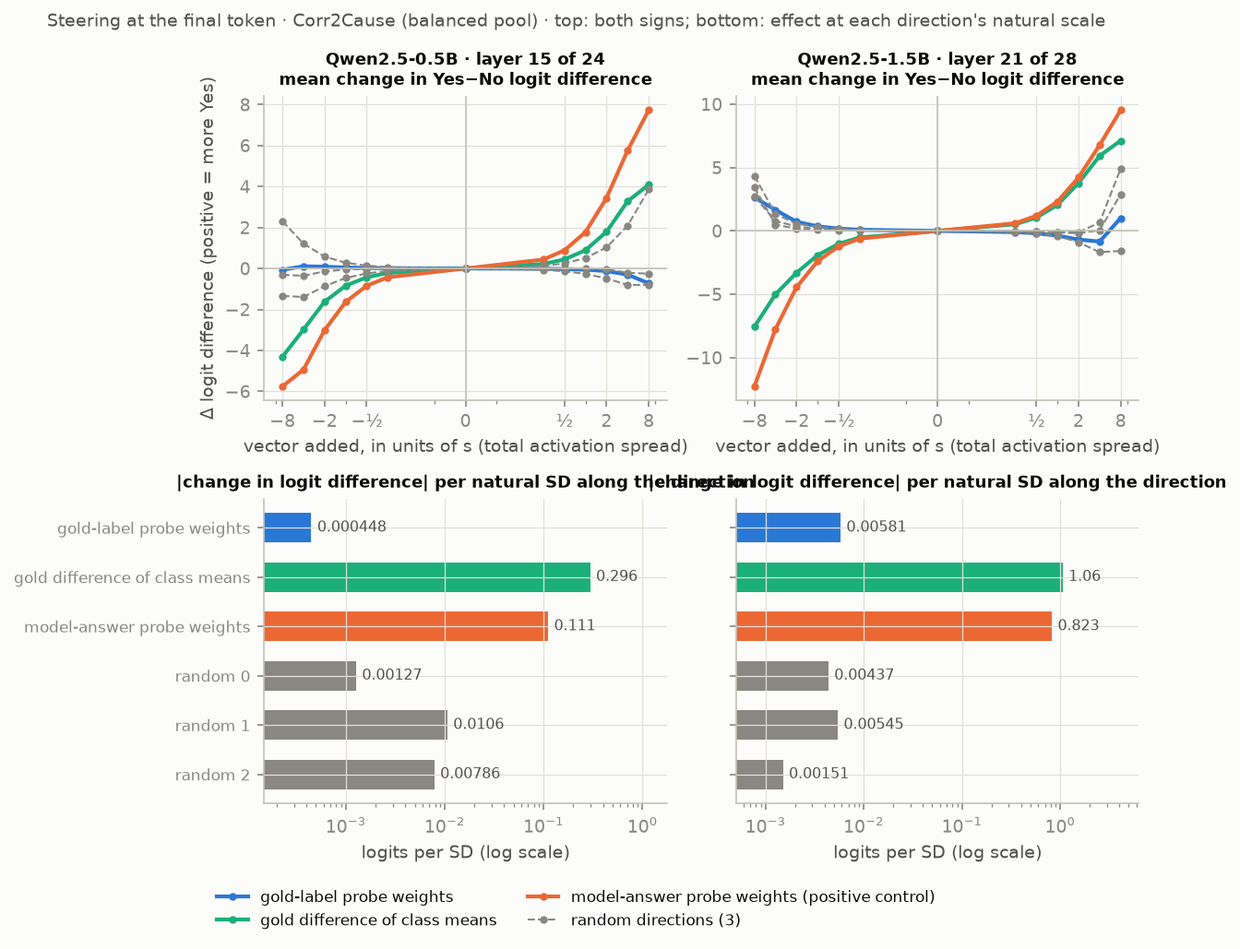
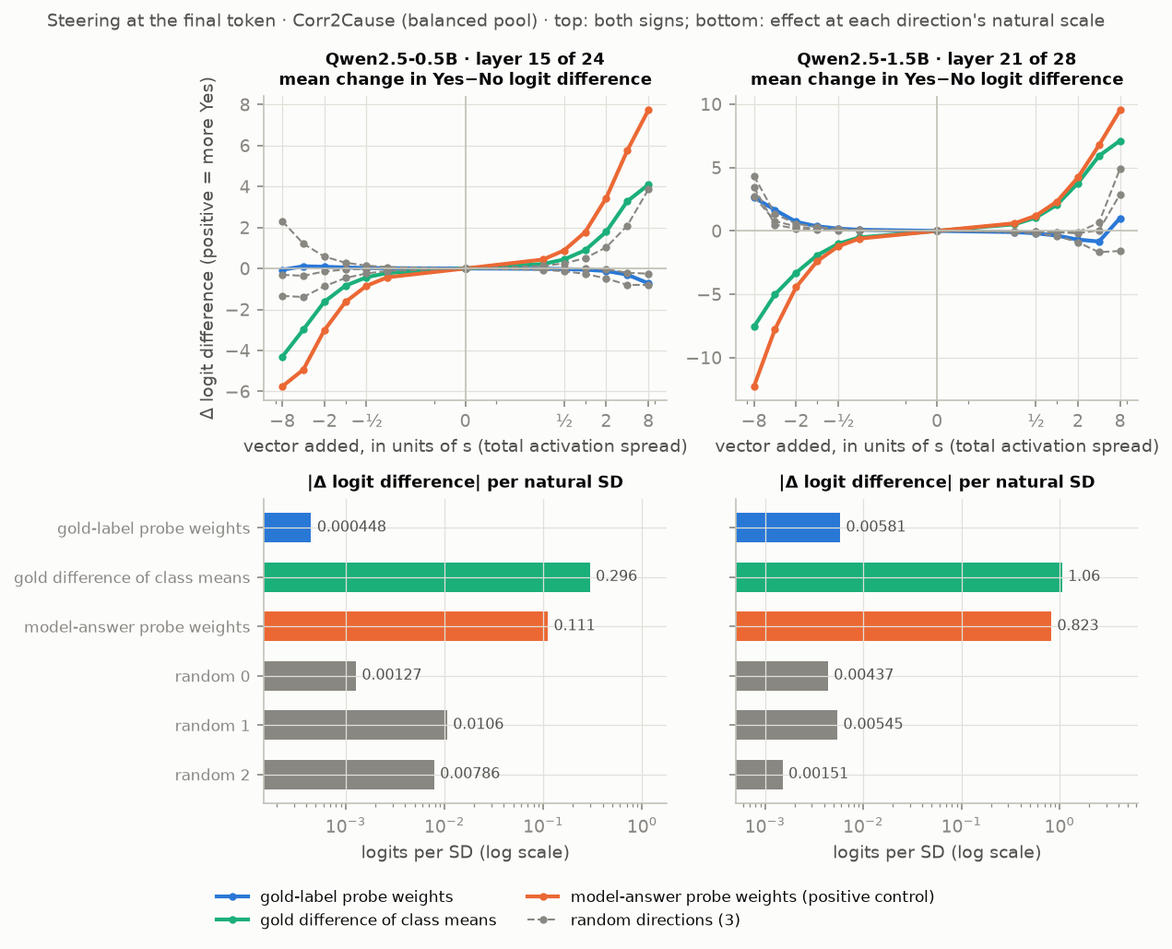
Tier 2 rewritten after the audit: signed slopes, matched controls, natural scale; patching retitled; figures and tables regenerated

diff --git a/scripts/06_figures.py b/scripts/06_figures.py
@@ -306,7 +306,7 @@ def fig_steering():
                 ax.text(v * 1.15, i, f"{v:.3g}", va="center", fontsize=7.5, color=INK2)
             ax.set_yticks(range(len(keys)), labs if j == 0 else [""] * len(keys), fontsize=8); ax.invert_yaxis()
             ax.set_xscale("log"); ax.set_xlim(min(vals) / 3, max(vals) * 6)
-            ax.set_title("|change in logit difference| per natural SD along the direction", fontsize=8.5)
+            ax.set_title("|Δ logit difference| per natural SD", fontsize=8.5)
             ax.set_xlabel("logits per SD (log scale)")
         axes[0, 0].set_ylabel("Δ logit difference (positive = more Yes)")
         h, l = axes[0, 0].get_legend_handles_labels()
@@ -329,7 +329,7 @@ def fig_patching():
         for j, m in enumerate(ms):
             r = load(f"patching_{m}.json")
             k = r["kinds"][kind]
-            for i, (key, lab) in enumerate((("pooled_recovery", "clean → corrupt"), ("control_pooled_recovery", "random-donor patch (uninformative)"))):
+            for i, (key, lab) in enumerate((("pooled_recovery", "clean → corrupt"), ("control_pooled_recovery", "random donor, not a control"))):
                 ax = axes[i, j]
                 g = np.array(k[key], float).T                    # [regions, layers]
                 im = ax.imshow(g, aspect="auto", cmap=cmap, norm=TwoSlopeNorm(0, -1, 1), interpolation="nearest")
@@ -337,7 +337,7 @@ def fig_patching():
                 step = max(1, len(r["layers"]) // 8)
                 ax.set_xticks(range(0, len(r["layers"]), step), [r["layers"][t] for t in range(0, len(r["layers"]), step)])
                 ax.grid(False)
-                ax.set_title(f"{MODEL_LAB[m]} · {lab} (n={k['n_pairs'] if i == 0 else k['n_pairs_with_control']} pairs)", fontsize=8.5)
+                ax.set_title(f"{MODEL_LAB[m]} · {lab} (n={k['n_pairs'] if i == 0 else k['n_pairs_with_control']})", fontsize=8.5)
                 if i == 1:
                     ax.set_xlabel("layer patched (0 = embeddings)")
             fig.colorbar(im, ax=axes[:, j], shrink=0.7, label="pooled recovery" if j == len(ms) - 1 else None)

diff --git a/report/report.md b/report/report.md
@@ -528,7 +528,11 @@ For Qwen2.5-1.5B on the debiased pool: the activations encode part of the premis
 
 ## 4. Tier 2 results
 
-### 4.1 Steering and ablation: is the decodable direction used?
+This section was rewritten after the second independent audit (Section 6), which showed that my first summary of the steering results ("the gold-probe direction is inert, the model-output direction flips answers") did not survive scrutiny as stated. The analysis below uses the audit's metrics and adds the controls it asked for. Results for Gemma-2-2B and Qwen2.5-3B come from the Kaggle run and are added when it returns; that run used three random directions only, so the matched controls exist for the two local Qwen models.
+
+### 4.1 Steering: what does adding a decodable direction do to the answer?
+
+**Design.** At one layer (the gold probe's selected layer) and the final prompt token, add ±α·s·d for a unit direction d and read the Yes−No answer logit difference (LD). s is the RMS distance of that layer's activations from their mean, a norm over all dimensions. Directions are fitted on the selection half and applied to 300 report-half items (150 valid, 150 invalid). Three real directions: the gold-label probe's weight vector; the difference between the mean activation of valid and invalid items; and, as a positive control, the weight vector of a probe for the model's own (median-split) answer, which is fitted to the very quantity being measured. The headline number is the **slope**, (LD(+α) − LD(−α)) / 2α at α = 1, in logits per unit of s.
 
 | Model | Item set | Layer | Direction | Slope: Δ(Yes−No logit) per unit s | Share of items with positive slope | One unit of s in the direction's own SDs | Slope per own SD | Effect of moving across the natural gold-class gap | AUROC for gold label | AUROC for model's answer |
 |---|---|---|---|---|---|---|---|---|---|---|
@@ -584,11 +588,99 @@ For Qwen2.5-1.5B on the debiased pool: the activations encode part of the premis
 <sub>Source: `results/steering_analysis_qwen0.5b_c2c_probe.json`, `results/steering_analysis_qwen0.5b_c2c_probe_d0.5.json`, `results/steering_analysis_qwen0.5b_c2c_probe_d0.85.json`, `results/steering_analysis_qwen0.5b_c2c_debiased.json`, `results/steering_analysis_qwen0.5b_cladder.json`, `results/steering_analysis_qwen1.5b_c2c_probe.json`, `results/steering_analysis_qwen1.5b_c2c_debiased.json`, `results/steering_analysis_qwen1.5b_cladder.json`</sub>
 
 ![steering c2c](../figures/fig6_steering_c2c_probe.png)
-![steering cladder](../figures/fig6_steering_cladder.png)
+![steering debiased](../figures/fig6_steering_c2c_debiased.png)
 
-<!-- T2-STEERING-TEXT -->
+**Matched controls** (150 report-half items for Qwen2.5-0.5B, 100 for Qwen2.5-1.5B): 100 isotropic random directions; 20 probe weight vectors fitted to shuffled labels, the control of the same kind as a probe direction; 20 differences of class means for shuffled labels, the control of the same kind as a difference of means.
 
-### 4.2 Patching: where is the answer determined?
+| Model | Item set | Layer | Direction | Slope per unit s | Percentile among 100 isotropic directions (|slope|) | Isotropic median |slope| | Isotropic max |slope| | Matched control family (20 directions) | Percentile among matched controls | Matched median |slope| | Matched max |slope| | Ratio to matched median |
+|---|---|---|---|---|---|---|---|---|---|---|---|---|
+| Qwen2.5-0.5B | Corr2Cause pool | 15 | gold-label probe weights | -0.049 [-0.056, -0.042] | 22 | 0.125 | 0.685 | shuffled-label probe | 20 | 0.130 | 0.294 | 0.4 |
+| Qwen2.5-0.5B | Corr2Cause pool | 15 | gold difference of class means | +0.865 [+0.855, +0.875] | 100 | 0.125 | 0.685 | shuffled-label difference of means | 100 | 0.189 | 0.628 | 4.6 |
+| Qwen2.5-0.5B | Corr2Cause pool | 15 | model-answer probe weights (positive control) | +1.700 [+1.685, +1.714] | 100 | 0.125 | 0.685 | shuffled-label probe | 100 | 0.130 | 0.294 | 13.1 |
+| Qwen2.5-0.5B | Corr2Cause debiased pool | 14 | gold-label probe weights | -0.229 [-0.235, -0.222] | 88 | 0.104 | 0.373 | shuffled-label probe | 85 | 0.075 | 0.360 | 3.0 |
+| Qwen2.5-0.5B | Corr2Cause debiased pool | 14 | gold difference of class means | +0.150 [+0.144, +0.157] | 63 | 0.104 | 0.373 | shuffled-label difference of means | 90 | 0.063 | 0.191 | 2.4 |
+| Qwen2.5-0.5B | Corr2Cause debiased pool | 14 | model-answer probe weights (positive control) | +0.525 [+0.516, +0.532] | 100 | 0.104 | 0.373 | shuffled-label probe | 100 | 0.075 | 0.360 | 7.0 |
+| Qwen2.5-1.5B | Corr2Cause pool | 21 | gold-label probe weights | -0.367 [-0.382, -0.351] | 84 | 0.162 | 1.043 | shuffled-label probe | 85 | 0.206 | 0.533 | 1.8 |
+| Qwen2.5-1.5B | Corr2Cause pool | 21 | gold difference of class means | +1.981 [+1.925, +2.042] | 100 | 0.162 | 1.043 | shuffled-label difference of means | 85 | 1.131 | 2.685 | 1.8 |
+| Qwen2.5-1.5B | Corr2Cause pool | 21 | model-answer probe weights (positive control) | +2.360 [+2.305, +2.424] | 100 | 0.162 | 1.043 | shuffled-label probe | 100 | 0.206 | 0.533 | 11.5 |
+| Qwen2.5-1.5B | Corr2Cause debiased pool | 22 | gold-label probe weights | -0.201 [-0.226, -0.178] | 55 | 0.184 | 0.850 | shuffled-label probe | 65 | 0.113 | 0.449 | 1.8 |
+| Qwen2.5-1.5B | Corr2Cause debiased pool | 22 | gold difference of class means | +1.897 [+1.865, +1.930] | 100 | 0.184 | 0.850 | shuffled-label difference of means | 80 | 1.330 | 2.674 | 1.4 |
+| Qwen2.5-1.5B | Corr2Cause debiased pool | 22 | model-answer probe weights (positive control) | +1.711 [+1.684, +1.743] | 100 | 0.184 | 0.850 | shuffled-label probe | 100 | 0.113 | 0.449 | 15.1 |
+
+<sub>Source: `results/steering_controls_qwen0.5b_c2c_probe.json`, `results/steering_controls_qwen0.5b_c2c_debiased.json`, `results/steering_controls_qwen1.5b_c2c_probe.json`, `results/steering_controls_qwen1.5b_c2c_debiased.json`</sub>
+
+**What the data show.**
+
+1. *The gold-probe weight direction does no more than label-free directions of the same kind.* On the original pool its slope is -0.049 [-0.056, -0.042] (percentile 20% among 20 shuffled-label probe directions; their median |slope| 0.130, maximum 0.294) for Qwen2.5-0.5B and -0.367 [-0.382, -0.351] (percentile 85% among 20 shuffled-label probe directions; their median |slope| 0.206, maximum 0.533) for Qwen2.5-1.5B. On the debiased pool: -0.229 [-0.235, -0.222] (percentile 85% among 20 shuffled-label probe directions; their median |slope| 0.075, maximum 0.360) and -0.201 [-0.226, -0.178] (percentile 65% among 20 shuffled-label probe directions; their median |slope| 0.113, maximum 0.449). In no case is it beyond the 95th percentile of its matched controls. For Qwen2.5-1.5B on the original pool the effect is consistent in sign across items and *opposite* to the gold label (pushing "towards valid" lowers the Yes logit); my first table showed one sign only and hid this. It is within what shuffled-label probe directions do, so it is not evidence of a gold-specific mechanism in either direction.
+2. *At natural scale the probe direction does essentially nothing.* A probe's weight vector points into low-variance directions: one unit of s is 119.00 (Qwen2.5-0.5B) and 63.08 (Qwen2.5-1.5B) natural standard deviations along it. Moving an item across the whole natural gap between valid and invalid items along that direction would change LD by -0.001 and -0.009 logits, against a standard deviation of LD across items of 0.41 and 2.28.
+3. *The difference-of-means direction moves the answer, but not specifically because it separates valid from invalid items.* Its slope is +0.865 [+0.855, +0.875] (percentile 100% among 20 shuffled-label differences of means; their median |slope| 0.189, maximum 0.628) for Qwen2.5-0.5B and +1.981 [+1.925, +2.042] (percentile 85% among 20 shuffled-label differences of means; their median |slope| 1.131, maximum 2.685) for Qwen2.5-1.5B on the original pool; on the debiased pool +0.150 [+0.144, +0.157] (percentile 90% among 20 shuffled-label differences of means; their median |slope| 0.063, maximum 0.191) and +1.897 [+1.865, +1.930] (percentile 80% among 20 shuffled-label differences of means; their median |slope| 1.330, maximum 2.674). A difference of class means lies in the high-variance part of activation space, and so does a difference of means for random labels. On the original pool this direction also separates the model's own answer at least as well as the gold label (AUROC 0.942 against 0.650 for Qwen2.5-1.5B). Only for Qwen2.5-0.5B on the original pool does it exceed all 20 shuffled controls, and that pool is the one in which the gold label is confounded with the hypothesis string.
+4. *The positive control works.* The model-answer direction has the largest slope everywhere and exceeds every control, as it must.
+
+**What may and may not be concluded.**
+
+- May: at the probed layer and the final token, later layers do not read the gold probe's weight direction more than they read a label-free direction of the same kind, and a movement of natural size along it leaves the answer unchanged.
+- May not: "the decoded information is unused". The probe's weights and the difference of class means are two views of one discriminant (the covariance times the probe weights has cosine 0.98 with the difference of means for Qwen2.5-1.5B); one site and one position were tested; and the activation pattern that does move the answer was not gold-specific.
+- The most direct evidence that the information of Section 3.6 is not used is behavioural: on the debiased pool the answers are at chance while the probe decodes validity at 0.63 and 0.75.
+- CLadder: the steered gold directions barely decode the gold label there (AUROC 0.547 and 0.622), so those rows are shown for completeness and no conclusion is drawn from them.
+
+Flip rates and the earlier "accuracy when pushed towards gold" (now called controllability) are in the next table. They are poor measures for models that answer No to most items: a flip is a threshold on slope × α against the margin, and controllability uses the gold label to choose the sign of the push, so any direction with a consistent slope reaches 0 or 1. Ablating the component along the probe or random directions changes LD by amounts at the float16 noise floor; no ablation comparison is claimed.
+
+| Model | Item set | Layer | Direction | Flip rate +4s | Flip rate −4s | Controllability towards gold (4s) | Controllability away from gold (4s) | Ablation mean |ΔLD| | Noise floor | Ablation above 3× floor |
+|---|---|---|---|---|---|---|---|---|---|---|
+| Qwen2.5-0.5B | Corr2Cause pool | 15/24 | gold-label probe weights | 0.00 [0.00, 0.00] | 0.00 [0.00, 0.01] | 0.50 [0.46, 0.55] | 0.50 [0.46, 0.55] | 0.0048 | 0.0058 | no |
+| Qwen2.5-0.5B | Corr2Cause pool | 15/24 | gold difference of class means | 1.00 [1.00, 1.00] | 0.00 [0.00, 0.00] | 1.00 [1.00, 1.00] | 0.00 [0.00, 0.00] | 0.2683 | 0.0058 | yes |
+| Qwen2.5-0.5B | Corr2Cause pool | 15/24 | model-answer probe weights (positive control) | 1.00 [1.00, 1.00] | 0.00 [0.00, 0.00] | 1.00 [1.00, 1.00] | 0.00 [0.00, 0.00] | 0.0948 | 0.0058 | yes |
+| Qwen2.5-0.5B | Corr2Cause pool | 15/24 | random direction 0 | 0.00 [0.00, 0.01] | 0.00 [0.00, 0.00] | 0.50 [0.46, 0.55] | 0.50 [0.45, 0.54] | 0.0047 | 0.0058 | no |
+| Qwen2.5-0.5B | Corr2Cause pool | 15/24 | random direction 1 | 1.00 [1.00, 1.00] | 0.00 [0.00, 0.00] | 1.00 [1.00, 1.00] | 0.00 [0.00, 0.00] | 0.0100 | 0.0058 | no |
+| Qwen2.5-0.5B | Corr2Cause pool | 15/24 | random direction 2 | 0.00 [0.00, 0.00] | 0.57 [0.51, 0.63] | 0.24 [0.19, 0.28] | 0.81 [0.76, 0.85] | 0.0077 | 0.0058 | no |
+| Qwen2.5-0.5B | Corr2Cause pool | 12/24 | gold-label probe weights | 0.12 [0.08, 0.16] | 0.00 [0.00, 0.00] | 0.58 [0.53, 0.63] | 0.46 [0.42, 0.51] | 0.0045 | 0.0059 | no |
+| Qwen2.5-0.5B | Corr2Cause pool | 12/24 | gold difference of class means | 0.00 [0.00, 0.00] | 0.06 [0.03, 0.09] | 0.49 [0.44, 0.53] | 0.54 [0.50, 0.59] | 0.0262 | 0.0059 | yes |
+| Qwen2.5-0.5B | Corr2Cause pool | 12/24 | model-answer probe weights (positive control) | 0.02 [0.01, 0.04] | 0.01 [0.00, 0.02] | 0.51 [0.47, 0.56] | 0.50 [0.46, 0.55] | 0.0043 | 0.0059 | no |
+| Qwen2.5-0.5B | Corr2Cause pool | 12/24 | random direction 0 | 0.00 [0.00, 0.00] | 0.01 [0.00, 0.03] | 0.50 [0.45, 0.54] | 0.51 [0.47, 0.56] | 0.0050 | 0.0059 | no |
+| Qwen2.5-0.5B | Corr2Cause pool | 12/24 | random direction 1 | 0.15 [0.11, 0.19] | 0.00 [0.00, 0.00] | 0.61 [0.56, 0.66] | 0.46 [0.42, 0.51] | 0.0053 | 0.0059 | no |
+| Qwen2.5-0.5B | Corr2Cause pool | 12/24 | random direction 2 | 0.27 [0.21, 0.33] | 0.00 [0.00, 0.00] | 0.67 [0.62, 0.72] | 0.40 [0.35, 0.45] | 0.0076 | 0.0059 | no |
+| Qwen2.5-0.5B | Corr2Cause pool | 20/24 | gold-label probe weights | 0.06 [0.03, 0.09] | 0.00 [0.00, 0.00] | 0.55 [0.50, 0.59] | 0.49 [0.45, 0.54] | 0.0044 | 0.0056 | no |
+| Qwen2.5-0.5B | Corr2Cause pool | 20/24 | gold difference of class means | 1.00 [1.00, 1.00] | 0.00 [0.00, 0.00] | 1.00 [1.00, 1.00] | 0.00 [0.00, 0.00] | 0.2374 | 0.0056 | yes |
+| Qwen2.5-0.5B | Corr2Cause pool | 20/24 | model-answer probe weights (positive control) | 1.00 [1.00, 1.00] | 0.00 [0.00, 0.00] | 1.00 [1.00, 1.00] | 0.00 [0.00, 0.00] | 0.1710 | 0.0056 | yes |
+| Qwen2.5-0.5B | Corr2Cause pool | 20/24 | random direction 0 | 0.07 [0.04, 0.10] | 0.00 [0.00, 0.00] | 0.55 [0.50, 0.60] | 0.49 [0.44, 0.53] | 0.0052 | 0.0056 | no |
+| Qwen2.5-0.5B | Corr2Cause pool | 20/24 | random direction 1 | 0.36 [0.30, 0.42] | 0.00 [0.00, 0.00] | 0.71 [0.66, 0.77] | 0.36 [0.31, 0.41] | 0.0056 | 0.0056 | no |
+| Qwen2.5-0.5B | Corr2Cause pool | 20/24 | random direction 2 | 0.00 [0.00, 0.00] | 0.05 [0.03, 0.08] | 0.49 [0.45, 0.54] | 0.54 [0.50, 0.59] | 0.0058 | 0.0056 | no |
+| Qwen2.5-0.5B | Corr2Cause debiased pool | 14/24 | gold-label probe weights | 0.00 [0.00, 0.01] | 0.17 [0.12, 0.21] | 0.42 [0.37, 0.47] | 0.59 [0.54, 0.64] | 0.0046 | 0.0059 | no |
+| Qwen2.5-0.5B | Corr2Cause debiased pool | 14/24 | gold difference of class means | 0.09 [0.06, 0.13] | 0.00 [0.00, 0.01] | 0.55 [0.49, 0.60] | 0.45 [0.40, 0.50] | 0.0144 | 0.0059 | no |
+| Qwen2.5-0.5B | Corr2Cause debiased pool | 14/24 | model-answer probe weights (positive control) | 0.99 [0.98, 1.00] | 0.00 [0.00, 0.01] | 1.00 [1.00, 1.00] | 0.00 [0.00, 0.01] | 0.0107 | 0.0059 | no |
+| Qwen2.5-0.5B | Corr2Cause debiased pool | 14/24 | random direction 0 | 0.00 [0.00, 0.01] | 0.03 [0.01, 0.05] | 0.49 [0.44, 0.54] | 0.52 [0.47, 0.57] | 0.0046 | 0.0059 | no |
+| Qwen2.5-0.5B | Corr2Cause debiased pool | 14/24 | random direction 1 | 0.13 [0.09, 0.16] | 0.00 [0.00, 0.01] | 0.56 [0.51, 0.61] | 0.43 [0.38, 0.48] | 0.0052 | 0.0059 | no |
+| Qwen2.5-0.5B | Corr2Cause debiased pool | 14/24 | random direction 2 | 0.00 [0.00, 0.01] | 0.05 [0.03, 0.08] | 0.47 [0.42, 0.52] | 0.53 [0.48, 0.58] | 0.0052 | 0.0059 | no |
+| Qwen2.5-0.5B | CLadder | 16/24 | gold-label probe weights | 0.12 [0.09, 0.16] | 0.04 [0.02, 0.06] | 0.59 [0.53, 0.64] | 0.43 [0.37, 0.48] | 0.0040 | 0.0048 | no |
+| Qwen2.5-0.5B | CLadder | 16/24 | gold difference of class means | 0.05 [0.02, 0.08] | 0.95 [0.92, 0.98] | 0.00 [0.00, 0.01] | 1.00 [1.00, 1.00] | 0.2176 | 0.0048 | yes |
+| Qwen2.5-0.5B | CLadder | 16/24 | model-answer probe weights (positive control) | 0.95 [0.92, 0.98] | 0.05 [0.02, 0.08] | 1.00 [1.00, 1.00] | 0.00 [0.00, 0.00] | 0.1021 | 0.0048 | yes |
+| Qwen2.5-0.5B | CLadder | 16/24 | random direction 0 | 0.35 [0.28, 0.42] | 0.03 [0.01, 0.04] | 0.70 [0.64, 0.77] | 0.33 [0.28, 0.38] | 0.0052 | 0.0048 | no |
+| Qwen2.5-0.5B | CLadder | 16/24 | random direction 1 | 0.68 [0.61, 0.76] | 0.04 [0.02, 0.07] | 0.88 [0.83, 0.92] | 0.15 [0.09, 0.20] | 0.0066 | 0.0048 | no |
+| Qwen2.5-0.5B | CLadder | 16/24 | random direction 2 | 0.02 [0.00, 0.03] | 0.54 [0.49, 0.60] | 0.25 [0.20, 0.30] | 0.78 [0.72, 0.83] | 0.0041 | 0.0048 | no |
+| Qwen2.5-1.5B | Corr2Cause pool | 21/28 | gold-label probe weights | 0.10 [0.07, 0.14] | 0.30 [0.26, 0.35] | 0.31 [0.26, 0.35] | 0.71 [0.66, 0.76] | 0.0076 | 0.0080 | no |
+| Qwen2.5-1.5B | Corr2Cause pool | 21/28 | gold difference of class means | 0.89 [0.85, 0.93] | 0.11 [0.07, 0.15] | 1.00 [1.00, 1.00] | 0.00 [0.00, 0.00] | 1.0198 | 0.0080 | yes |
+| Qwen2.5-1.5B | Corr2Cause pool | 21/28 | model-answer probe weights (positive control) | 0.89 [0.85, 0.93] | 0.11 [0.07, 0.15] | 1.00 [1.00, 1.00] | 0.00 [0.00, 0.00] | 0.7409 | 0.0080 | yes |
+| Qwen2.5-1.5B | Corr2Cause pool | 21/28 | random direction 0 | 0.04 [0.02, 0.06] | 0.05 [0.03, 0.07] | 0.51 [0.47, 0.56] | 0.51 [0.47, 0.56] | 0.0071 | 0.0080 | no |
+| Qwen2.5-1.5B | Corr2Cause pool | 21/28 | random direction 1 | 0.08 [0.05, 0.12] | 0.21 [0.17, 0.26] | 0.35 [0.31, 0.39] | 0.64 [0.59, 0.69] | 0.0074 | 0.0080 | no |
+| Qwen2.5-1.5B | Corr2Cause pool | 21/28 | random direction 2 | 0.13 [0.10, 0.17] | 0.06 [0.03, 0.09] | 0.55 [0.51, 0.60] | 0.48 [0.43, 0.52] | 0.0065 | 0.0080 | no |
+| Qwen2.5-1.5B | Corr2Cause debiased pool | 22/28 | gold-label probe weights | 0.05 [0.03, 0.07] | 0.02 [0.00, 0.03] | 0.45 [0.40, 0.50] | 0.51 [0.46, 0.56] | 0.0042 | 0.0060 | no |
+| Qwen2.5-1.5B | Corr2Cause debiased pool | 22/28 | gold difference of class means | 0.88 [0.84, 0.91] | 0.12 [0.09, 0.16] | 1.00 [1.00, 1.00] | 0.00 [0.00, 0.00] | 0.5521 | 0.0060 | yes |
+| Qwen2.5-1.5B | Corr2Cause debiased pool | 22/28 | model-answer probe weights (positive control) | 0.88 [0.84, 0.91] | 0.12 [0.09, 0.16] | 1.00 [1.00, 1.00] | 0.00 [0.00, 0.00] | 0.4372 | 0.0060 | yes |
+| Qwen2.5-1.5B | Corr2Cause debiased pool | 22/28 | random direction 0 | 0.04 [0.02, 0.07] | 0.03 [0.01, 0.05] | 0.52 [0.47, 0.57] | 0.44 [0.39, 0.49] | 0.0047 | 0.0060 | no |
+| Qwen2.5-1.5B | Corr2Cause debiased pool | 22/28 | random direction 1 | 0.10 [0.07, 0.14] | 0.38 [0.32, 0.43] | 0.25 [0.20, 0.29] | 0.73 [0.68, 0.78] | 0.0088 | 0.0060 | no |
+| Qwen2.5-1.5B | Corr2Cause debiased pool | 22/28 | random direction 2 | 0.24 [0.19, 0.28] | 0.02 [0.00, 0.03] | 0.60 [0.54, 0.65] | 0.37 [0.31, 0.42] | 0.0061 | 0.0060 | no |
+| Qwen2.5-1.5B | CLadder | 24/28 | gold-label probe weights | 0.03 [0.01, 0.05] | 0.08 [0.05, 0.10] | 0.54 [0.48, 0.61] | 0.45 [0.39, 0.53] | 0.0047 | 0.0061 | no |
+| Qwen2.5-1.5B | CLadder | 24/28 | gold difference of class means | 0.37 [0.31, 0.43] | 0.39 [0.34, 0.44] | 0.89 [0.85, 0.92] | 0.13 [0.09, 0.18] | 0.1670 | 0.0061 | yes |
+| Qwen2.5-1.5B | CLadder | 24/28 | model-answer probe weights (positive control) | 0.37 [0.31, 0.43] | 0.63 [0.57, 0.69] | 1.00 [1.00, 1.00] | 0.00 [0.00, 0.00] | 0.6141 | 0.0061 | yes |
+| Qwen2.5-1.5B | CLadder | 24/28 | random direction 0 | 0.17 [0.13, 0.21] | 0.14 [0.10, 0.18] | 0.65 [0.58, 0.73] | 0.35 [0.29, 0.41] | 0.0076 | 0.0061 | no |
+| Qwen2.5-1.5B | CLadder | 24/28 | random direction 1 | 0.33 [0.27, 0.38] | 0.18 [0.13, 0.22] | 0.26 [0.20, 0.32] | 0.76 [0.71, 0.82] | 0.0053 | 0.0061 | no |
+| Qwen2.5-1.5B | CLadder | 24/28 | random direction 2 | 0.27 [0.22, 0.32] | 0.12 [0.08, 0.16] | 0.71 [0.65, 0.78] | 0.32 [0.26, 0.39] | 0.0069 | 0.0061 | no |
+
+<sub>Source: `results/steering_analysis_qwen0.5b_c2c_probe.json`, `results/steering_analysis_qwen0.5b_c2c_probe_d0.5.json`, `results/steering_analysis_qwen0.5b_c2c_probe_d0.85.json`, `results/steering_analysis_qwen0.5b_c2c_debiased.json`, `results/steering_analysis_qwen0.5b_cladder.json`, `results/steering_analysis_qwen1.5b_c2c_probe.json`, `results/steering_analysis_qwen1.5b_c2c_debiased.json`, `results/steering_analysis_qwen1.5b_cladder.json`</sub>
+
+### 4.2 Patching: where does a change of variable reach the answer position?
+
+**Design.** Token-aligned Corr2Cause minimal pairs with opposite gold labels: *hyp* pairs share the premise and differ in one variable of the hypothesis; *prem* pairs share the hypothesis and have two variable letters swapped throughout the premise. The residual stream of the "clean" run is copied into the "corrupt" run at one layer and one group of token positions. Pooled recovery = Σ sign(D)·(LD_patched − LD_corrupt) / Σ|D|, with D = LD_clean − LD_corrupt.
 
 | Model | Pair kind | Pairs | Mean D = LD(clean) − LD(corrupt) | Frac. D > 0 | Both answered correctly | First layer with ≥ 0.5 recovery at final token | …as relative depth | Max |control| at diff tokens | Max |control| at final token | Pairs with control |
 |---|---|---|---|---|---|---|---|---|---|---|
@@ -602,6 +694,10 @@ For Qwen2.5-1.5B on the debiased pool: the activations encode part of the premis
 ![patching prem](../figures/fig7_patching_prem.png)
 ![patching hyp](../figures/fig7_patching_hyp.png)
 
+**What the data show.** The models do not prefer the valid member of a pair: mean D is +0.009 [-0.060, +0.078] (Qwen2.5-0.5B) and -0.088 [-0.420, +0.267] (Qwen2.5-1.5B) for hyp pairs, and D is positive for about half of the pairs. Because recovery is normalised by each pair's own D, the heat-maps show where *any* difference between the two prompts is carried to the final token, not where a causal judgement is made. That transfer is sharp: recovery at the final token first reaches 0.5 at layer 15 of 24 for Qwen2.5-0.5B (relative depth 0.62) and at layer 17 or 18 of 28 for Qwen2.5-1.5B (every second layer was patched; relative depth 0.61 to 0.64). The two pair kinds share their clean prompts and are not independent replications.
+
+**The random-donor row is not a control.** Only 16 of 60 (Qwen2.5-0.5B) and 6 of 40 (Qwen2.5-1.5B) pairs have a donor prompt of equal length, half of the donors carry the same token as the clean prompt at the changed position, and the statistic is not zero under the null. It is shown and not used.
+
 | Model | Pair kind | Pairs | Pearson r (attr. vs real) | Spearman | Mean |real| top-10 | Mean |real| random-10 | Largest real effects |
 |---|---|---|---|---|---|---|---|
 | Qwen2.5-0.5B | hyp | 30 | 1.00 | 0.98 | 0.449 | 0.034 | L14H5 (+0.76), MLP23 (-0.67), MLP12 (+0.50), MLP14 (+0.45), L12H2 (+0.44) |
@@ -613,7 +709,9 @@ For Qwen2.5-1.5B on the debiased pool: the activations encode part of the premis
 
 ![attribution](../figures/fig8_attribution_validation.png)
 
-<!-- T2-PATCHING-TEXT -->
+**Components.** Attribution patching (one gradient) agrees with real patching for the ten highest-ranked components of each model and pair kind. Among ten random components the agreement is driven by one or two large ones; without them the two estimates can disagree in sign. So: accurate for the largest components, not a complete ranking. Component names such as L14H5 are block numbers; residual index 15 is the output of block 14.
+
+**Not done.** A label-preserving minimal-pair control (two prompts that differ in a variable but have the same gold label) would separate "the answer changes" from "the prompt changes". It is the experiment this section most needs.
 
 ### 4.3 Cross-model comparison
 
@@ -641,7 +739,7 @@ For Qwen2.5-1.5B on the debiased pool: the activations encode part of the premis
 
 ![cross model](../figures/fig9_cross_model.png)
 
-<!-- T2-CROSS-TEXT -->
+A descriptive comparison of three models from two families, not a scaling law. On the original item sets gold-probe accuracy is higher for the two larger models than for Qwen2.5-0.5B, and the probe trails the strongest text baseline for every model. The selected layer lies at relative depth 0.6 to 0.9. On the debiased pool (Section 3.6) the difference between Qwen2.5-0.5B and Qwen2.5-1.5B is larger and is the more informative comparison, since it is not inflated by the hypothesis-string cue.
 
 ## 5. Tier 3 results
 

diff --git a/report/report_template.md b/report/report_template.md
@@ -229,27 +229,59 @@ For Qwen2.5-1.5B on the debiased pool: the activations encode part of the premis
 
 ## 4. Tier 2 results
 
-### 4.1 Steering and ablation: is the decodable direction used?
+This section was rewritten after the second independent audit (Section 6), which showed that my first summary of the steering results ("the gold-probe direction is inert, the model-output direction flips answers") did not survive scrutiny as stated. The analysis below uses the audit's metrics and adds the controls it asked for. Results for Gemma-2-2B and Qwen2.5-3B come from the Kaggle run and are added when it returns; that run used three random directions only, so the matched controls exist for the two local Qwen models.
+
+### 4.1 Steering: what does adding a decodable direction do to the answer?
+
+**Design.** At one layer (the gold probe's selected layer) and the final prompt token, add ±α·s·d for a unit direction d and read the Yes−No answer logit difference (LD). s is the RMS distance of that layer's activations from their mean, a norm over all dimensions. Directions are fitted on the selection half and applied to 300 report-half items (150 valid, 150 invalid). Three real directions: the gold-label probe's weight vector; the difference between the mean activation of valid and invalid items; and, as a positive control, the weight vector of a probe for the model's own (median-split) answer, which is fitted to the very quantity being measured. The headline number is the **slope**, (LD(+α) − LD(−α)) / 2α at α = 1, in logits per unit of s.
 
 <!-- TABLE:steering -->
 
 ![steering c2c](../figures/fig6_steering_c2c_probe.png)
-![steering cladder](../figures/fig6_steering_cladder.png)
+![steering debiased](../figures/fig6_steering_c2c_debiased.png)
 
-<!-- T2-STEERING-TEXT -->
+**Matched controls** (150 report-half items for Qwen2.5-0.5B, 100 for Qwen2.5-1.5B): 100 isotropic random directions; 20 probe weight vectors fitted to shuffled labels, the control of the same kind as a probe direction; 20 differences of class means for shuffled labels, the control of the same kind as a difference of means.
 
-### 4.2 Patching: where is the answer determined?
+<!-- TABLE:steering_controls -->
+
+**What the data show.**
+
+1. *The gold-probe weight direction does no more than label-free directions of the same kind.* On the original pool its slope is {{steering_controls_qwen0.5b_c2c_probe.json|real/gold_probe/slope_per_s|signedci}} (percentile {{steering_controls_qwen0.5b_c2c_probe.json|real/gold_probe/versus/shuffled_probe/percentile_of_abs_slope_per_s|pct}} among 20 shuffled-label probe directions; their median |slope| {{steering_controls_qwen0.5b_c2c_probe.json|families/shuffled_probe/abs_slope_per_s/median|num}}, maximum {{steering_controls_qwen0.5b_c2c_probe.json|families/shuffled_probe/abs_slope_per_s/max|num}}) for Qwen2.5-0.5B and {{steering_controls_qwen1.5b_c2c_probe.json|real/gold_probe/slope_per_s|signedci}} (percentile {{steering_controls_qwen1.5b_c2c_probe.json|real/gold_probe/versus/shuffled_probe/percentile_of_abs_slope_per_s|pct}} among 20 shuffled-label probe directions; their median |slope| {{steering_controls_qwen1.5b_c2c_probe.json|families/shuffled_probe/abs_slope_per_s/median|num}}, maximum {{steering_controls_qwen1.5b_c2c_probe.json|families/shuffled_probe/abs_slope_per_s/max|num}}) for Qwen2.5-1.5B. On the debiased pool: {{steering_controls_qwen0.5b_c2c_debiased.json|real/gold_probe/slope_per_s|signedci}} (percentile {{steering_controls_qwen0.5b_c2c_debiased.json|real/gold_probe/versus/shuffled_probe/percentile_of_abs_slope_per_s|pct}} among 20 shuffled-label probe directions; their median |slope| {{steering_controls_qwen0.5b_c2c_debiased.json|families/shuffled_probe/abs_slope_per_s/median|num}}, maximum {{steering_controls_qwen0.5b_c2c_debiased.json|families/shuffled_probe/abs_slope_per_s/max|num}}) and {{steering_controls_qwen1.5b_c2c_debiased.json|real/gold_probe/slope_per_s|signedci}} (percentile {{steering_controls_qwen1.5b_c2c_debiased.json|real/gold_probe/versus/shuffled_probe/percentile_of_abs_slope_per_s|pct}} among 20 shuffled-label probe directions; their median |slope| {{steering_controls_qwen1.5b_c2c_debiased.json|families/shuffled_probe/abs_slope_per_s/median|num}}, maximum {{steering_controls_qwen1.5b_c2c_debiased.json|families/shuffled_probe/abs_slope_per_s/max|num}}). In no case is it beyond the 95th percentile of its matched controls. For Qwen2.5-1.5B on the original pool the effect is consistent in sign across items and *opposite* to the gold label (pushing "towards valid" lowers the Yes logit); my first table showed one sign only and hid this. It is within what shuffled-label probe directions do, so it is not evidence of a gold-specific mechanism in either direction.
+2. *At natural scale the probe direction does essentially nothing.* A probe's weight vector points into low-variance directions: one unit of s is {{steering_analysis_qwen0.5b_c2c_probe.json|directions/gold_probe/alpha_1_in_own_sd|num2}} (Qwen2.5-0.5B) and {{steering_analysis_qwen1.5b_c2c_probe.json|directions/gold_probe/alpha_1_in_own_sd|num2}} (Qwen2.5-1.5B) natural standard deviations along it. Moving an item across the whole natural gap between valid and invalid items along that direction would change LD by {{steering_analysis_qwen0.5b_c2c_probe.json|directions/gold_probe/effect_of_natural_class_gap_on_logit_diff|signed}} and {{steering_analysis_qwen1.5b_c2c_probe.json|directions/gold_probe/effect_of_natural_class_gap_on_logit_diff|signed}} logits, against a standard deviation of LD across items of {{steering_analysis_qwen0.5b_c2c_probe.json|baseline/logit_diff_sd|num2}} and {{steering_analysis_qwen1.5b_c2c_probe.json|baseline/logit_diff_sd|num2}}.
+3. *The difference-of-means direction moves the answer, but not specifically because it separates valid from invalid items.* Its slope is {{steering_controls_qwen0.5b_c2c_probe.json|real/gold_diffmeans/slope_per_s|signedci}} (percentile {{steering_controls_qwen0.5b_c2c_probe.json|real/gold_diffmeans/versus/shuffled_diffmeans/percentile_of_abs_slope_per_s|pct}} among 20 shuffled-label differences of means; their median |slope| {{steering_controls_qwen0.5b_c2c_probe.json|families/shuffled_diffmeans/abs_slope_per_s/median|num}}, maximum {{steering_controls_qwen0.5b_c2c_probe.json|families/shuffled_diffmeans/abs_slope_per_s/max|num}}) for Qwen2.5-0.5B and {{steering_controls_qwen1.5b_c2c_probe.json|real/gold_diffmeans/slope_per_s|signedci}} (percentile {{steering_controls_qwen1.5b_c2c_probe.json|real/gold_diffmeans/versus/shuffled_diffmeans/percentile_of_abs_slope_per_s|pct}} among 20 shuffled-label differences of means; their median |slope| {{steering_controls_qwen1.5b_c2c_probe.json|families/shuffled_diffmeans/abs_slope_per_s/median|num}}, maximum {{steering_controls_qwen1.5b_c2c_probe.json|families/shuffled_diffmeans/abs_slope_per_s/max|num}}) for Qwen2.5-1.5B on the original pool; on the debiased pool {{steering_controls_qwen0.5b_c2c_debiased.json|real/gold_diffmeans/slope_per_s|signedci}} (percentile {{steering_controls_qwen0.5b_c2c_debiased.json|real/gold_diffmeans/versus/shuffled_diffmeans/percentile_of_abs_slope_per_s|pct}} among 20 shuffled-label differences of means; their median |slope| {{steering_controls_qwen0.5b_c2c_debiased.json|families/shuffled_diffmeans/abs_slope_per_s/median|num}}, maximum {{steering_controls_qwen0.5b_c2c_debiased.json|families/shuffled_diffmeans/abs_slope_per_s/max|num}}) and {{steering_controls_qwen1.5b_c2c_debiased.json|real/gold_diffmeans/slope_per_s|signedci}} (percentile {{steering_controls_qwen1.5b_c2c_debiased.json|real/gold_diffmeans/versus/shuffled_diffmeans/percentile_of_abs_slope_per_s|pct}} among 20 shuffled-label differences of means; their median |slope| {{steering_controls_qwen1.5b_c2c_debiased.json|families/shuffled_diffmeans/abs_slope_per_s/median|num}}, maximum {{steering_controls_qwen1.5b_c2c_debiased.json|families/shuffled_diffmeans/abs_slope_per_s/max|num}}). A difference of class means lies in the high-variance part of activation space, and so does a difference of means for random labels. On the original pool this direction also separates the model's own answer at least as well as the gold label (AUROC {{steering_analysis_qwen1.5b_c2c_probe.json|directions/gold_diffmeans/auroc_model_answer_report_half|num}} against {{steering_analysis_qwen1.5b_c2c_probe.json|directions/gold_diffmeans/auroc_gold_report_half|num}} for Qwen2.5-1.5B). Only for Qwen2.5-0.5B on the original pool does it exceed all 20 shuffled controls, and that pool is the one in which the gold label is confounded with the hypothesis string.
+4. *The positive control works.* The model-answer direction has the largest slope everywhere and exceeds every control, as it must.
+
+**What may and may not be concluded.**
+
+- May: at the probed layer and the final token, later layers do not read the gold probe's weight direction more than they read a label-free direction of the same kind, and a movement of natural size along it leaves the answer unchanged.
+- May not: "the decoded information is unused". The probe's weights and the difference of class means are two views of one discriminant (the covariance times the probe weights has cosine {{steering_analysis_qwen1.5b_c2c_probe.json|geometry/cos_covariance_times_probe_vs_diffmeans|num2}} with the difference of means for Qwen2.5-1.5B); one site and one position were tested; and the activation pattern that does move the answer was not gold-specific.
+- The most direct evidence that the information of Section 3.6 is not used is behavioural: on the debiased pool the answers are at chance while the probe decodes validity at {{confound_qwen0.5b_c2c_debiased.json|all_items/gold_probe/accuracy|num2}} and {{confound_qwen1.5b_c2c_debiased.json|all_items/gold_probe/accuracy|num2}}.
+- CLadder: the steered gold directions barely decode the gold label there (AUROC {{steering_analysis_qwen0.5b_cladder.json|directions/gold_probe/auroc_gold_report_half|num}} and {{steering_analysis_qwen1.5b_cladder.json|directions/gold_probe/auroc_gold_report_half|num}}), so those rows are shown for completeness and no conclusion is drawn from them.
+
+Flip rates and the earlier "accuracy when pushed towards gold" (now called controllability) are in the next table. They are poor measures for models that answer No to most items: a flip is a threshold on slope × α against the margin, and controllability uses the gold label to choose the sign of the push, so any direction with a consistent slope reaches 0 or 1. Ablating the component along the probe or random directions changes LD by amounts at the float16 noise floor; no ablation comparison is claimed.
+
+<!-- TABLE:steering_flips -->
+
+### 4.2 Patching: where does a change of variable reach the answer position?
+
+**Design.** Token-aligned Corr2Cause minimal pairs with opposite gold labels: *hyp* pairs share the premise and differ in one variable of the hypothesis; *prem* pairs share the hypothesis and have two variable letters swapped throughout the premise. The residual stream of the "clean" run is copied into the "corrupt" run at one layer and one group of token positions. Pooled recovery = Σ sign(D)·(LD_patched − LD_corrupt) / Σ|D|, with D = LD_clean − LD_corrupt.
 
 <!-- TABLE:patching_summary -->
 
 ![patching prem](../figures/fig7_patching_prem.png)
 ![patching hyp](../figures/fig7_patching_hyp.png)
 
+**What the data show.** The models do not prefer the valid member of a pair: mean D is {{patching_qwen0.5b.json|kinds/hyp/behaviour_on_pairs/mean_delta|signedci}} (Qwen2.5-0.5B) and {{patching_qwen1.5b.json|kinds/hyp/behaviour_on_pairs/mean_delta|signedci}} (Qwen2.5-1.5B) for hyp pairs, and D is positive for about half of the pairs. Because recovery is normalised by each pair's own D, the heat-maps show where *any* difference between the two prompts is carried to the final token, not where a causal judgement is made. That transfer is sharp: recovery at the final token first reaches 0.5 at layer 15 of 24 for Qwen2.5-0.5B (relative depth 0.62) and at layer 17 or 18 of 28 for Qwen2.5-1.5B (every second layer was patched; relative depth 0.61 to 0.64). The two pair kinds share their clean prompts and are not independent replications.
+
+**The random-donor row is not a control.** Only 16 of 60 (Qwen2.5-0.5B) and 6 of 40 (Qwen2.5-1.5B) pairs have a donor prompt of equal length, half of the donors carry the same token as the clean prompt at the changed position, and the statistic is not zero under the null. It is shown and not used.
+
 <!-- TABLE:patching_components -->
 
 ![attribution](../figures/fig8_attribution_validation.png)
 
-<!-- T2-PATCHING-TEXT -->
+**Components.** Attribution patching (one gradient) agrees with real patching for the ten highest-ranked components of each model and pair kind. Among ten random components the agreement is driven by one or two large ones; without them the two estimates can disagree in sign. So: accurate for the largest components, not a complete ranking. Component names such as L14H5 are block numbers; residual index 15 is the output of block 14.
+
+**Not done.** A label-preserving minimal-pair control (two prompts that differ in a variable but have the same gold label) would separate "the answer changes" from "the prompt changes". It is the experiment this section most needs.
 
 ### 4.3 Cross-model comparison
 
@@ -257,7 +289,7 @@ For Qwen2.5-1.5B on the debiased pool: the activations encode part of the premis
 
 ![cross model](../figures/fig9_cross_model.png)
 
-<!-- T2-CROSS-TEXT -->
+A descriptive comparison of three models from two families, not a scaling law. On the original item sets gold-probe accuracy is higher for the two larger models than for Qwen2.5-0.5B, and the probe trails the strongest text baseline for every model. The selected layer lies at relative depth 0.6 to 0.9. On the debiased pool (Section 3.6) the difference between Qwen2.5-0.5B and Qwen2.5-1.5B is larger and is the more informative comparison, since it is not inflated by the hypothesis-string cue.
 
 ## 5. Tier 3 results
 

diff --git a/report/tables/steering_controls.md b/report/tables/steering_controls.md
@@ -9,5 +9,8 @@
 | Qwen2.5-1.5B | Corr2Cause pool | 21 | gold-label probe weights | -0.367 [-0.382, -0.351] | 84 | 0.162 | 1.043 | shuffled-label probe | 85 | 0.206 | 0.533 | 1.8 |
 | Qwen2.5-1.5B | Corr2Cause pool | 21 | gold difference of class means | +1.981 [+1.925, +2.042] | 100 | 0.162 | 1.043 | shuffled-label difference of means | 85 | 1.131 | 2.685 | 1.8 |
 | Qwen2.5-1.5B | Corr2Cause pool | 21 | model-answer probe weights (positive control) | +2.360 [+2.305, +2.424] | 100 | 0.162 | 1.043 | shuffled-label probe | 100 | 0.206 | 0.533 | 11.5 |
+| Qwen2.5-1.5B | Corr2Cause debiased pool | 22 | gold-label probe weights | -0.201 [-0.226, -0.178] | 55 | 0.184 | 0.850 | shuffled-label probe | 65 | 0.113 | 0.449 | 1.8 |
+| Qwen2.5-1.5B | Corr2Cause debiased pool | 22 | gold difference of class means | +1.897 [+1.865, +1.930] | 100 | 0.184 | 0.850 | shuffled-label difference of means | 80 | 1.330 | 2.674 | 1.4 |
+| Qwen2.5-1.5B | Corr2Cause debiased pool | 22 | model-answer probe weights (positive control) | +1.711 [+1.684, +1.743] | 100 | 0.184 | 0.850 | shuffled-label probe | 100 | 0.113 | 0.449 | 15.1 |
 
-<sub>Source: `results/steering_controls_qwen0.5b_c2c_probe.json`, `results/steering_controls_qwen0.5b_c2c_debiased.json`, `results/steering_controls_qwen1.5b_c2c_probe.json`</sub>
+<sub>Source: `results/steering_controls_qwen0.5b_c2c_probe.json`, `results/steering_controls_qwen0.5b_c2c_debiased.json`, `results/steering_controls_qwen1.5b_c2c_probe.json`, `results/steering_controls_qwen1.5b_c2c_debiased.json`</sub>
